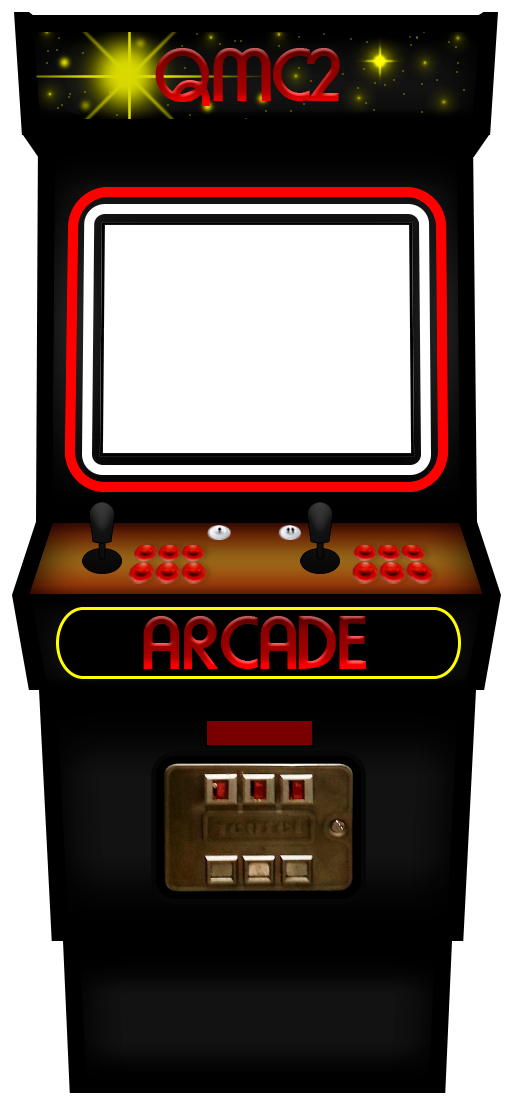
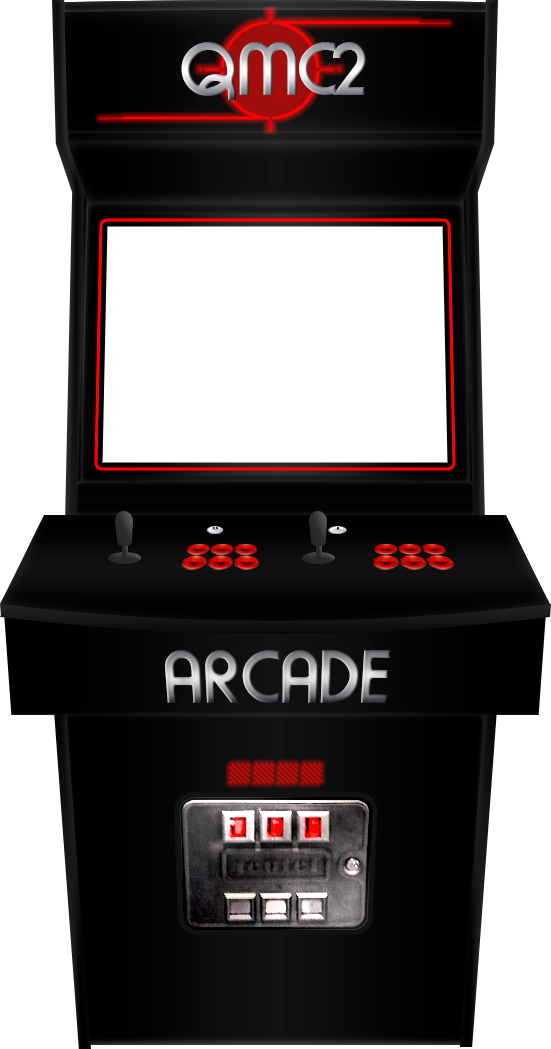
imp: QMC2 Arcade / ToxicWaste theme: updated cabinet overlay image made by JacKc

diff --git a/arcade/qml/ToxicWaste/1.1/ToxicWaste.qml b/arcade/qml/ToxicWaste/1.1/ToxicWaste.qml
@@ -126,12 +126,12 @@ Rectangle {
                 }
                 Rectangle {
                     id: previewRect
-                    width: 230
-                    height: 170
+                    width: 239
+                    height: 165
                     opacity: toxicWasteMain.overlayOpacity
                     anchors.centerIn: overlayImage
-                    anchors.verticalCenterOffset: -157 * ToxicWaste.scaleFactorX()
-                    scale: ToxicWaste.scaleFactorX()
+                    anchors.verticalCenterOffset: -124 * ToxicWaste.scaleFactorX()
+                    scale: overlayImage.scale
                     color: "#202020"
                     smooth: true
                     z: -1
@@ -141,6 +141,7 @@ Rectangle {
                         smooth: true
                         anchors.fill: parent
                         anchors.centerIn: parent
+                        anchors.margins: 1
                         fillMode: Image.PreserveAspectFit
                     }
                 }

diff --git a/arcade/qml/ToxicWaste/2.0/ToxicWaste.qml b/arcade/qml/ToxicWaste/2.0/ToxicWaste.qml
@@ -125,12 +125,12 @@ Rectangle {
                 }
                 Rectangle {
                     id: previewRect
-                    width: 230
-                    height: 170
+                    width: 239
+                    height: 165
                     opacity: toxicWasteMain.overlayOpacity
                     anchors.centerIn: overlayImage
-                    anchors.verticalCenterOffset: -157 * ToxicWaste.scaleFactorX()
-                    scale: ToxicWaste.scaleFactorX()
+                    anchors.verticalCenterOffset: -124 * ToxicWaste.scaleFactorX()
+                    scale: overlayImage.scale
                     color: "#202020"
                     smooth: true
                     z: -1
@@ -140,6 +140,7 @@ Rectangle {
                         smooth: true
                         anchors.fill: parent
                         anchors.centerIn: parent
+                        anchors.margins: 1
                         fillMode: Image.PreserveAspectFit
                     }
                 }

diff --git a/data/doc/html/us/changes.html b/data/doc/html/us/changes.html
@@ -5,7 +5,7 @@
   <title>M.A.M.E./M.E.S.S./U.M.E. Catalog / Launcher II Documentation - CHANGES</title>
 </head>
 <body style="color: black; background-image:url(../images/doc-bg.jpg);" dir="ltr" alink="#111111" link="#111111" vlink="#999999">
-<h3>CHANGES - v0.41, 19-SEP-2013</h3>
+<h3>CHANGES - v0.41, 21-SEP-2013</h3>
 <p>
 fix: general bug fixes<br>
 imp: improved functionality<br>
@@ -14,9 +14,10 @@ wip: (incomplete) work in progress<br>
 doc: documentation changes<br>
 inf: informational only
 </p>
-<p><b>v0.41, 19-SEP-2013:</b></p>
+<p><b>v0.41, 21-SEP-2013:</b></p>
 <ul>
   <li>imp: template-map check: switched the order in which differing default values are logged (the <b>expected</b> value is shown first now, the second value is the one from the currently active template)</li>
+  <li>imp: QMC2 Arcade / ToxicWaste theme: updated cabinet overlay image made by <a href="credits.html#JacKc">Jacques Châtelet (JacKc)</a></li></li>
 </ul>
 <p><b>v0.40, 18-SEP-2013:</b></p>
 <ul>
